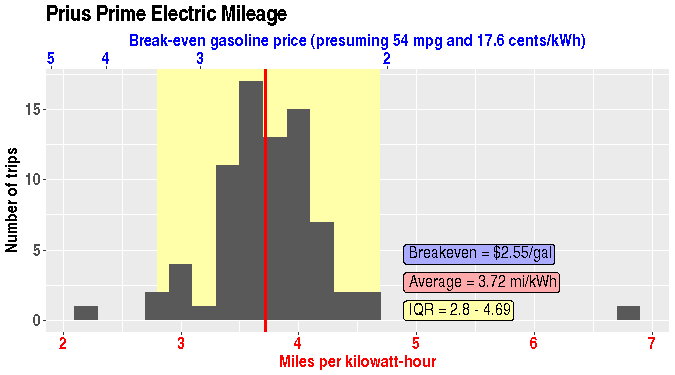
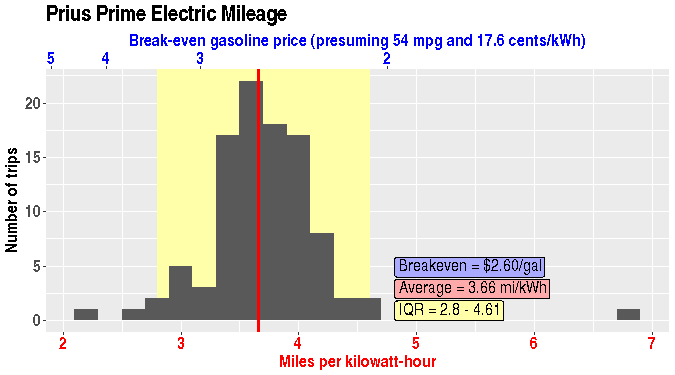
found out I can trip the breaker doing laundry

diff --git a/README.md b/README.md
@@ -26,17 +26,17 @@ cost of a kWh. It is parsed by [run.R](run.R).
 Current data (EMV=Electric vehicle, ICE=Gasoline):
 ```
 Summary statistics:
-       Time : 77 days (0.21 years)
-  EMV miles : 1417.0
-  ICE miles : 69.6
-Consumption : 378.57 kWh
-    Mileage : 3.72 Mi/kWh
-   Capacity : 7.31 kWh
-      Range : 27.2 miles
+       Time : 108 days (0.30 years)
+  EMV miles : 1878.1
+  ICE miles : 205.0
+Consumption : 509.97 kWh
+    Mileage : 3.66 Mi/kWh
+   Capacity : 7.37 kWh
+      Range : 27.0 miles
         MPG : 54.0
   Cents/kWh : 17.6
- Electicity : $66.60 ($315.68/year)
-  BreakEven : $2.55/gal = Equivalent cost of gasoline
+ Electicity : $89.71 ($303.19/year)
+  BreakEven : $2.60/gal = Equivalent cost of gasoline
 
 ```
 
